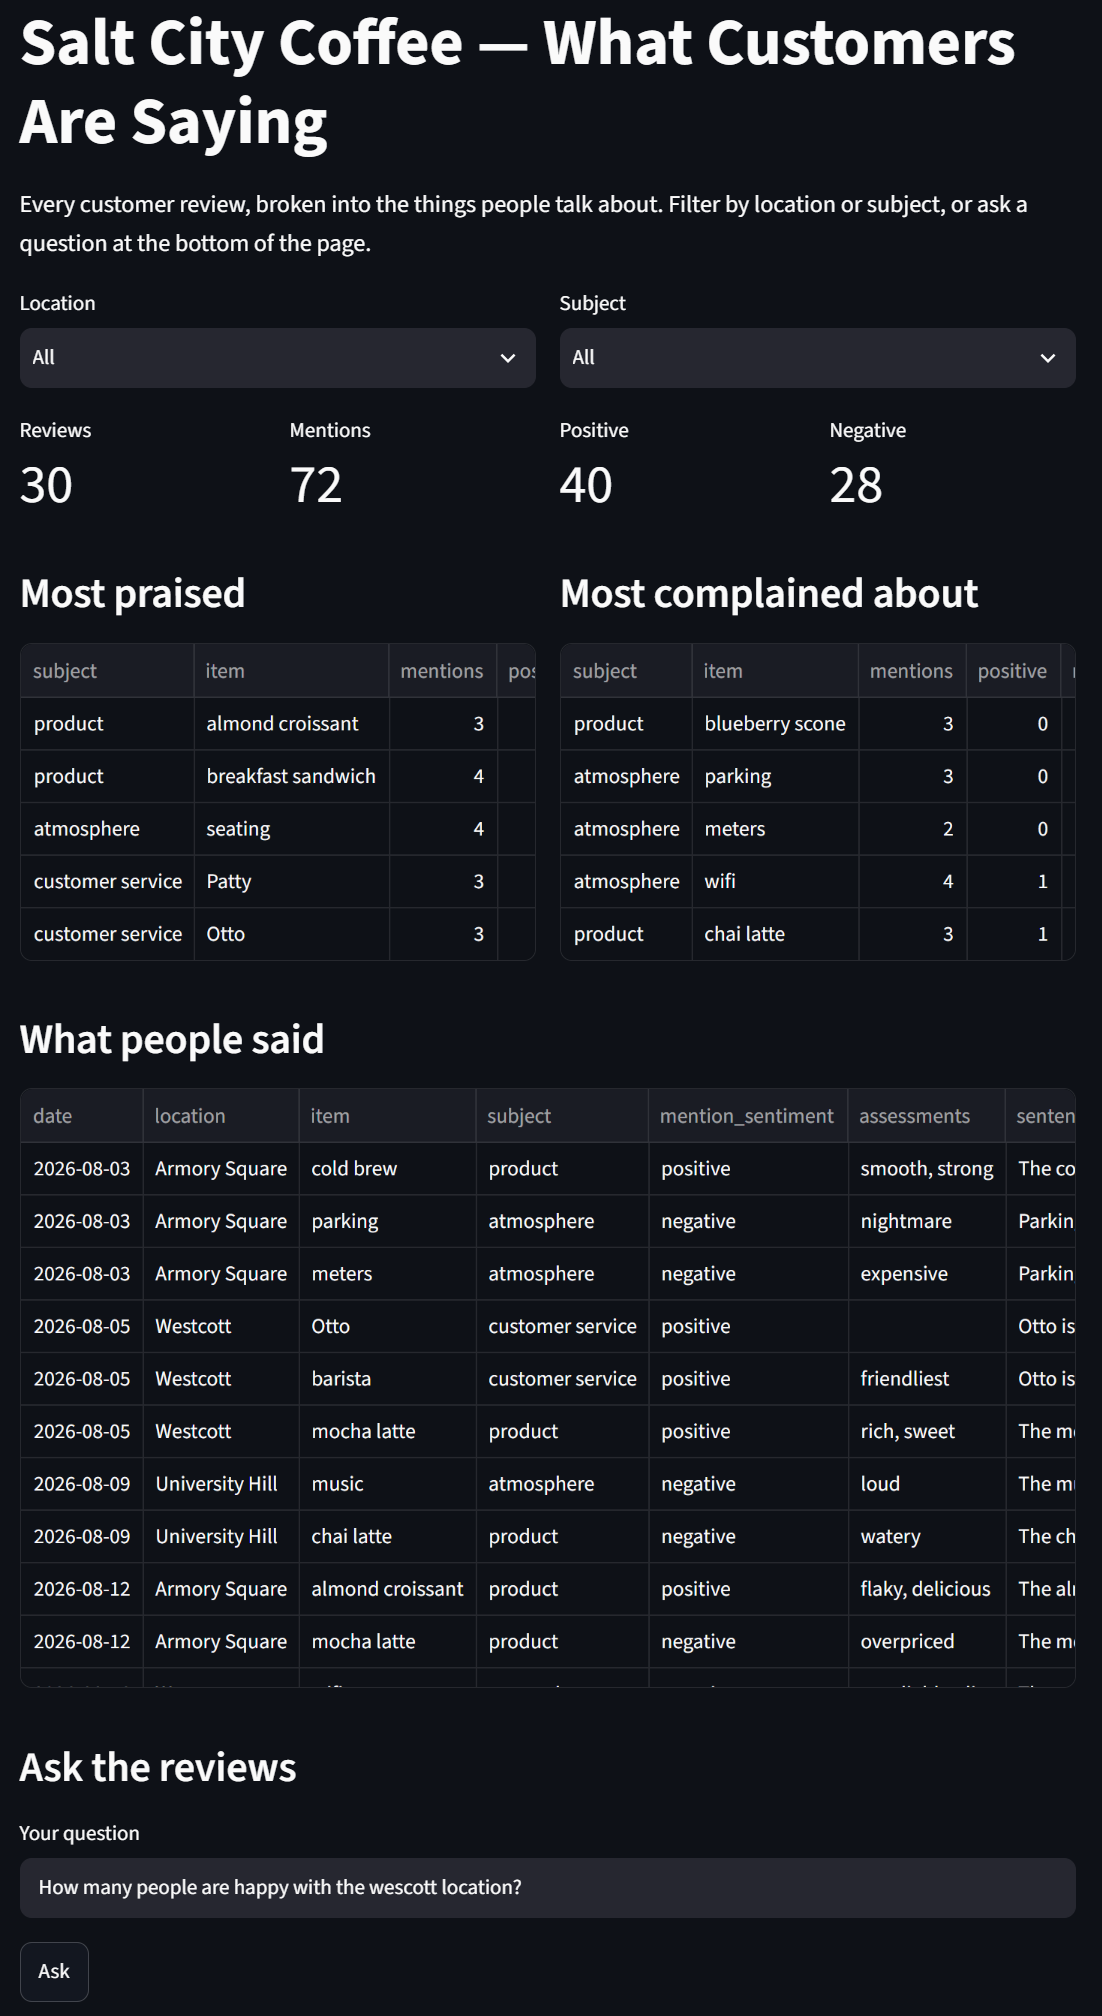
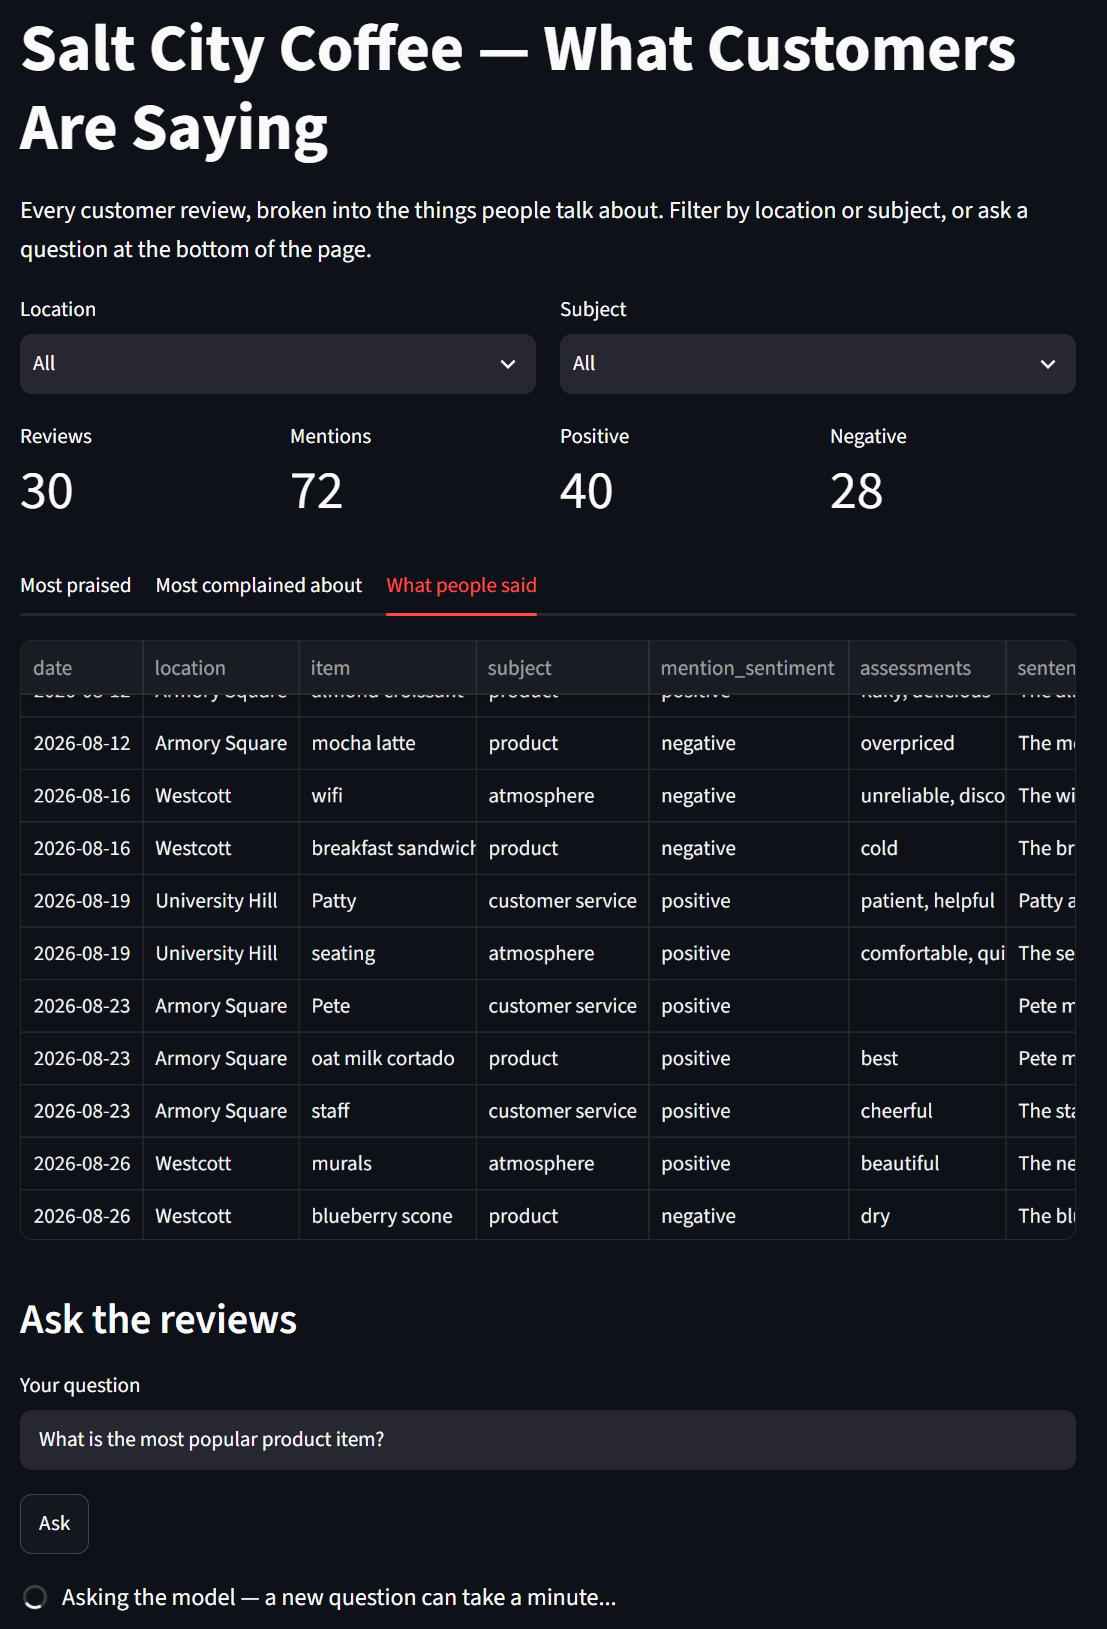
README screenshot: tabs layout and the Q&A spinner
Michael's new capture of review_explorer.py on the 30 reviews (three tables as
tabs, a question waiting on the model), with a caption under it.

Claude-Session: https://claude.ai/code/session_01Jiz7rPKZfrC546Cs6eGfAr

diff --git a/README.md b/README.md
@@ -265,7 +265,9 @@ latte?"* — then pick each location in the filter and see why the answer mentio
 locations. Then try *"What is the most popular product?"*, *"Do customers like the
 Westcott location?"* and *"What do customers complain about most?"*.
 
-![Screenshot of review_explorer.py](review_explorer.png)
+![Screenshot of review_explorer.py: the location and subject filters, four metrics, the three tabs with What people said open, and the Ask the reviews box waiting on the model](review_explorer.png)
+
+*The finished page on all 30 reviews: filters and metrics at the top, the three tables as tabs, and a question on its way to the model (the spinner shows while it thinks).*
 
 ### Step 9 — Commit
 
